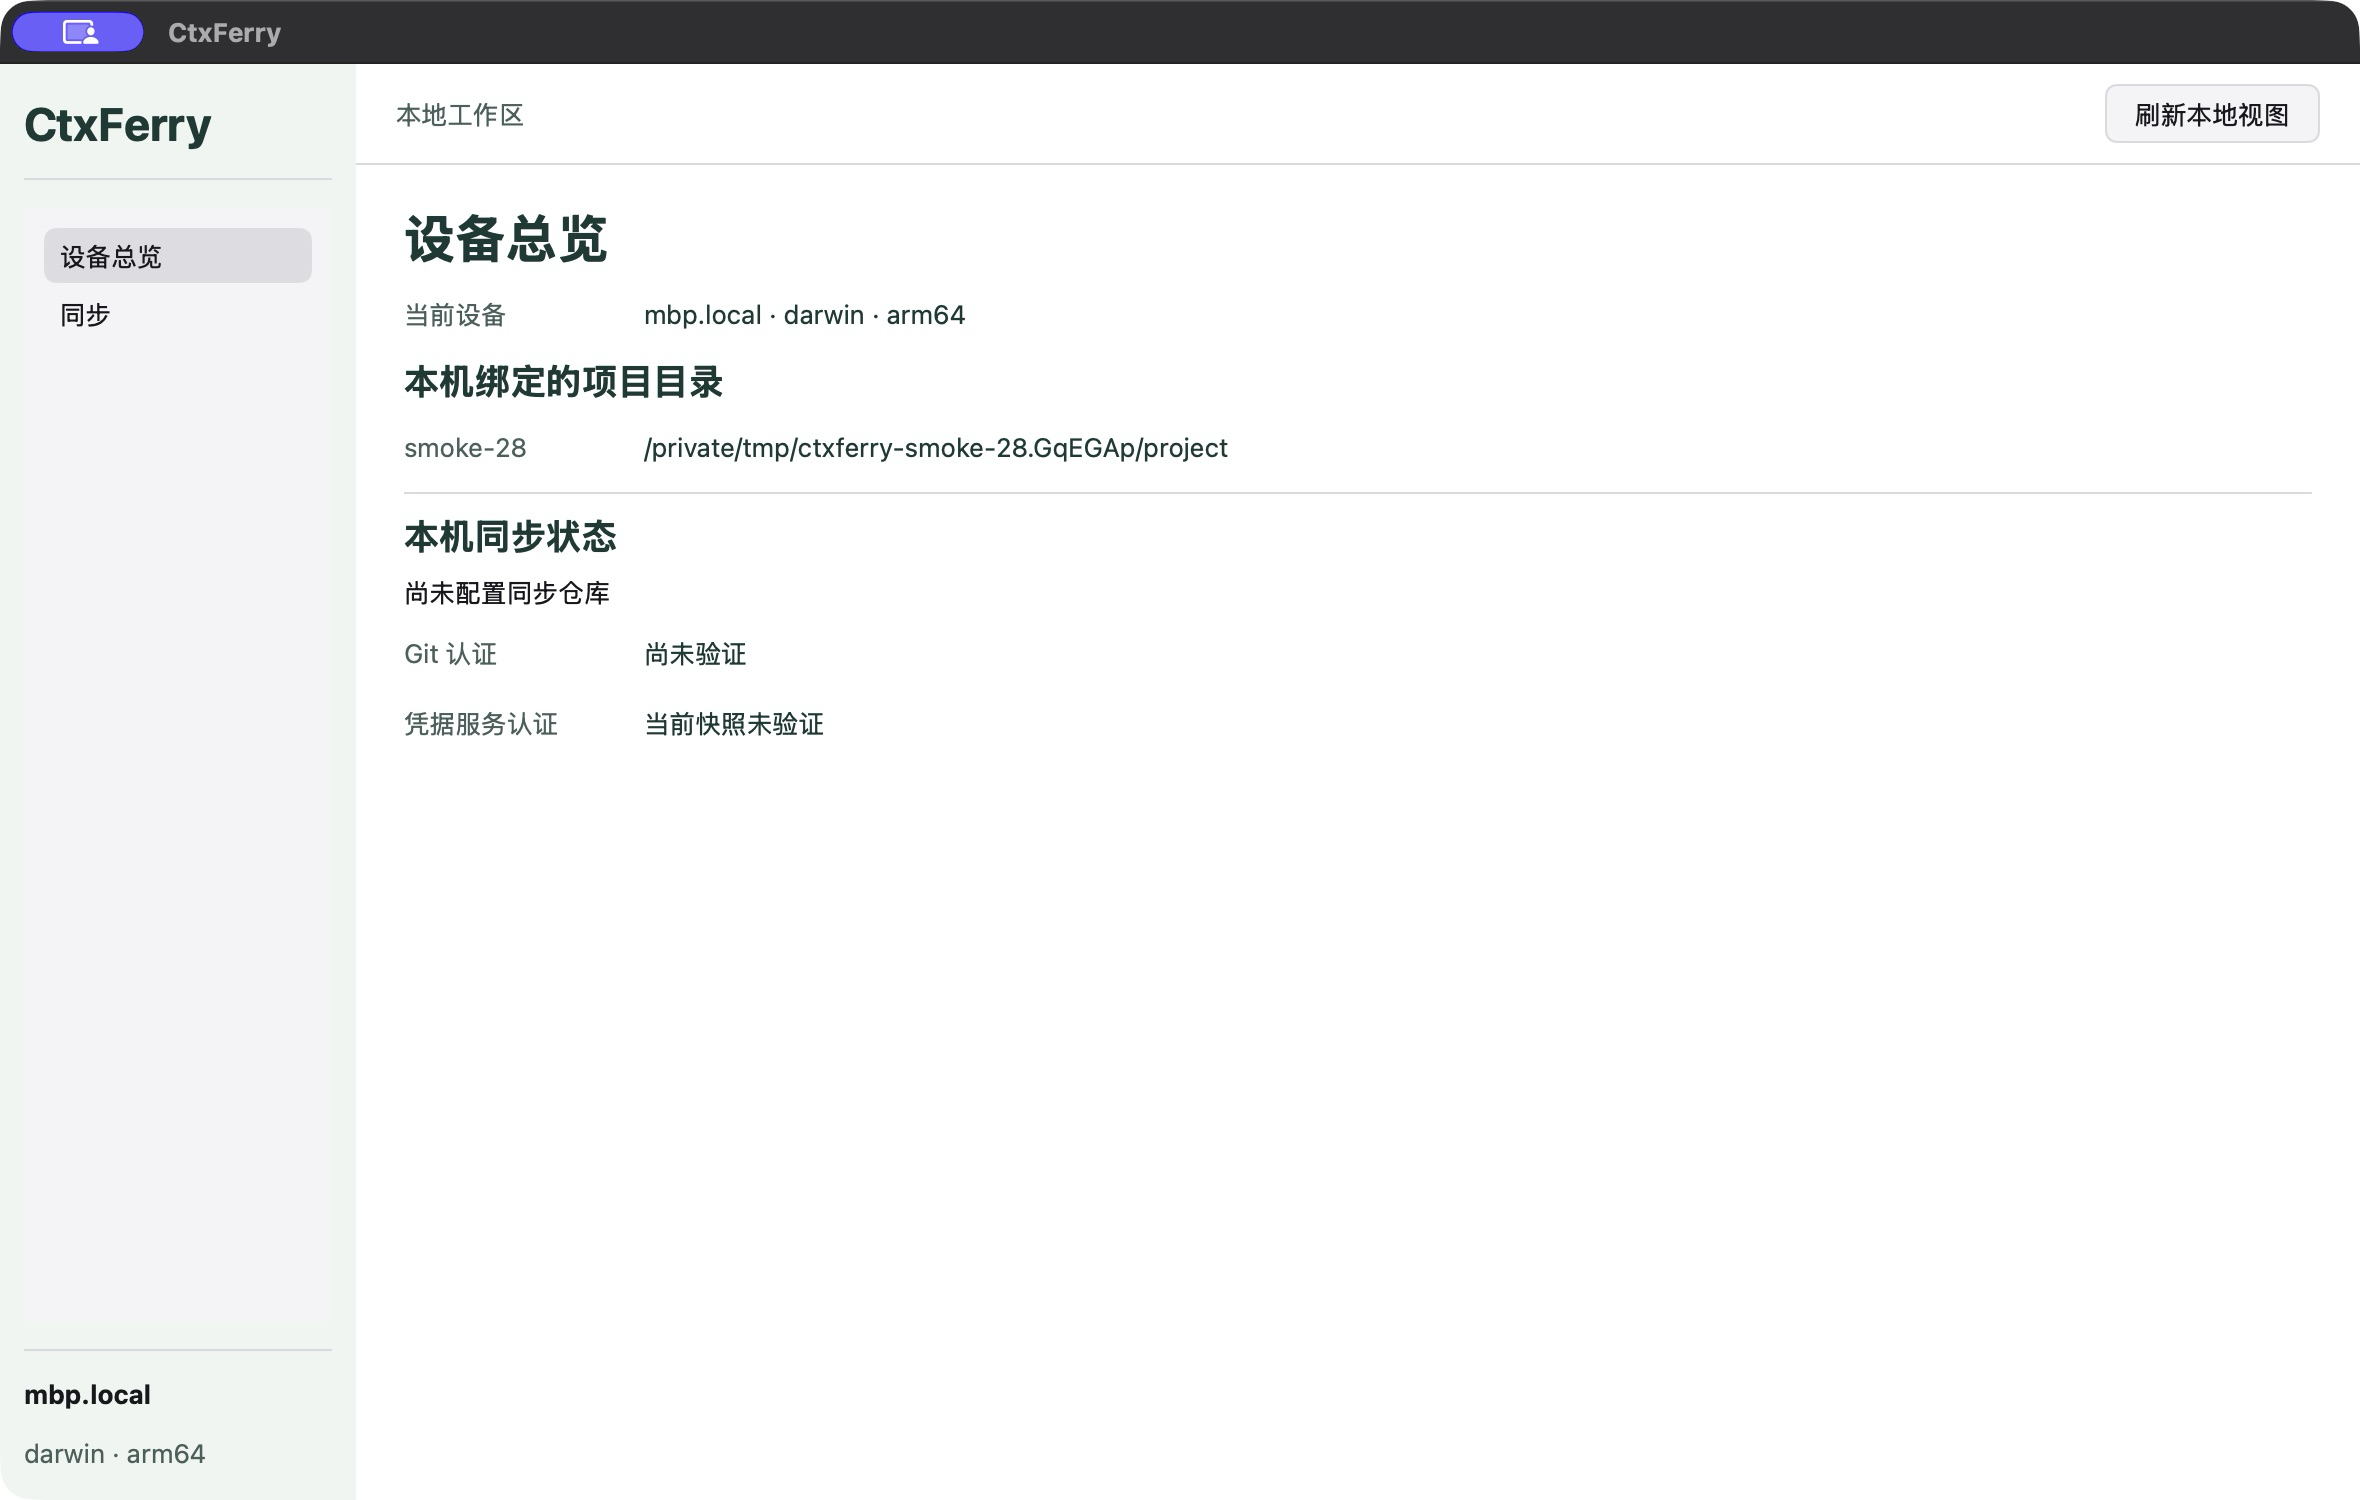
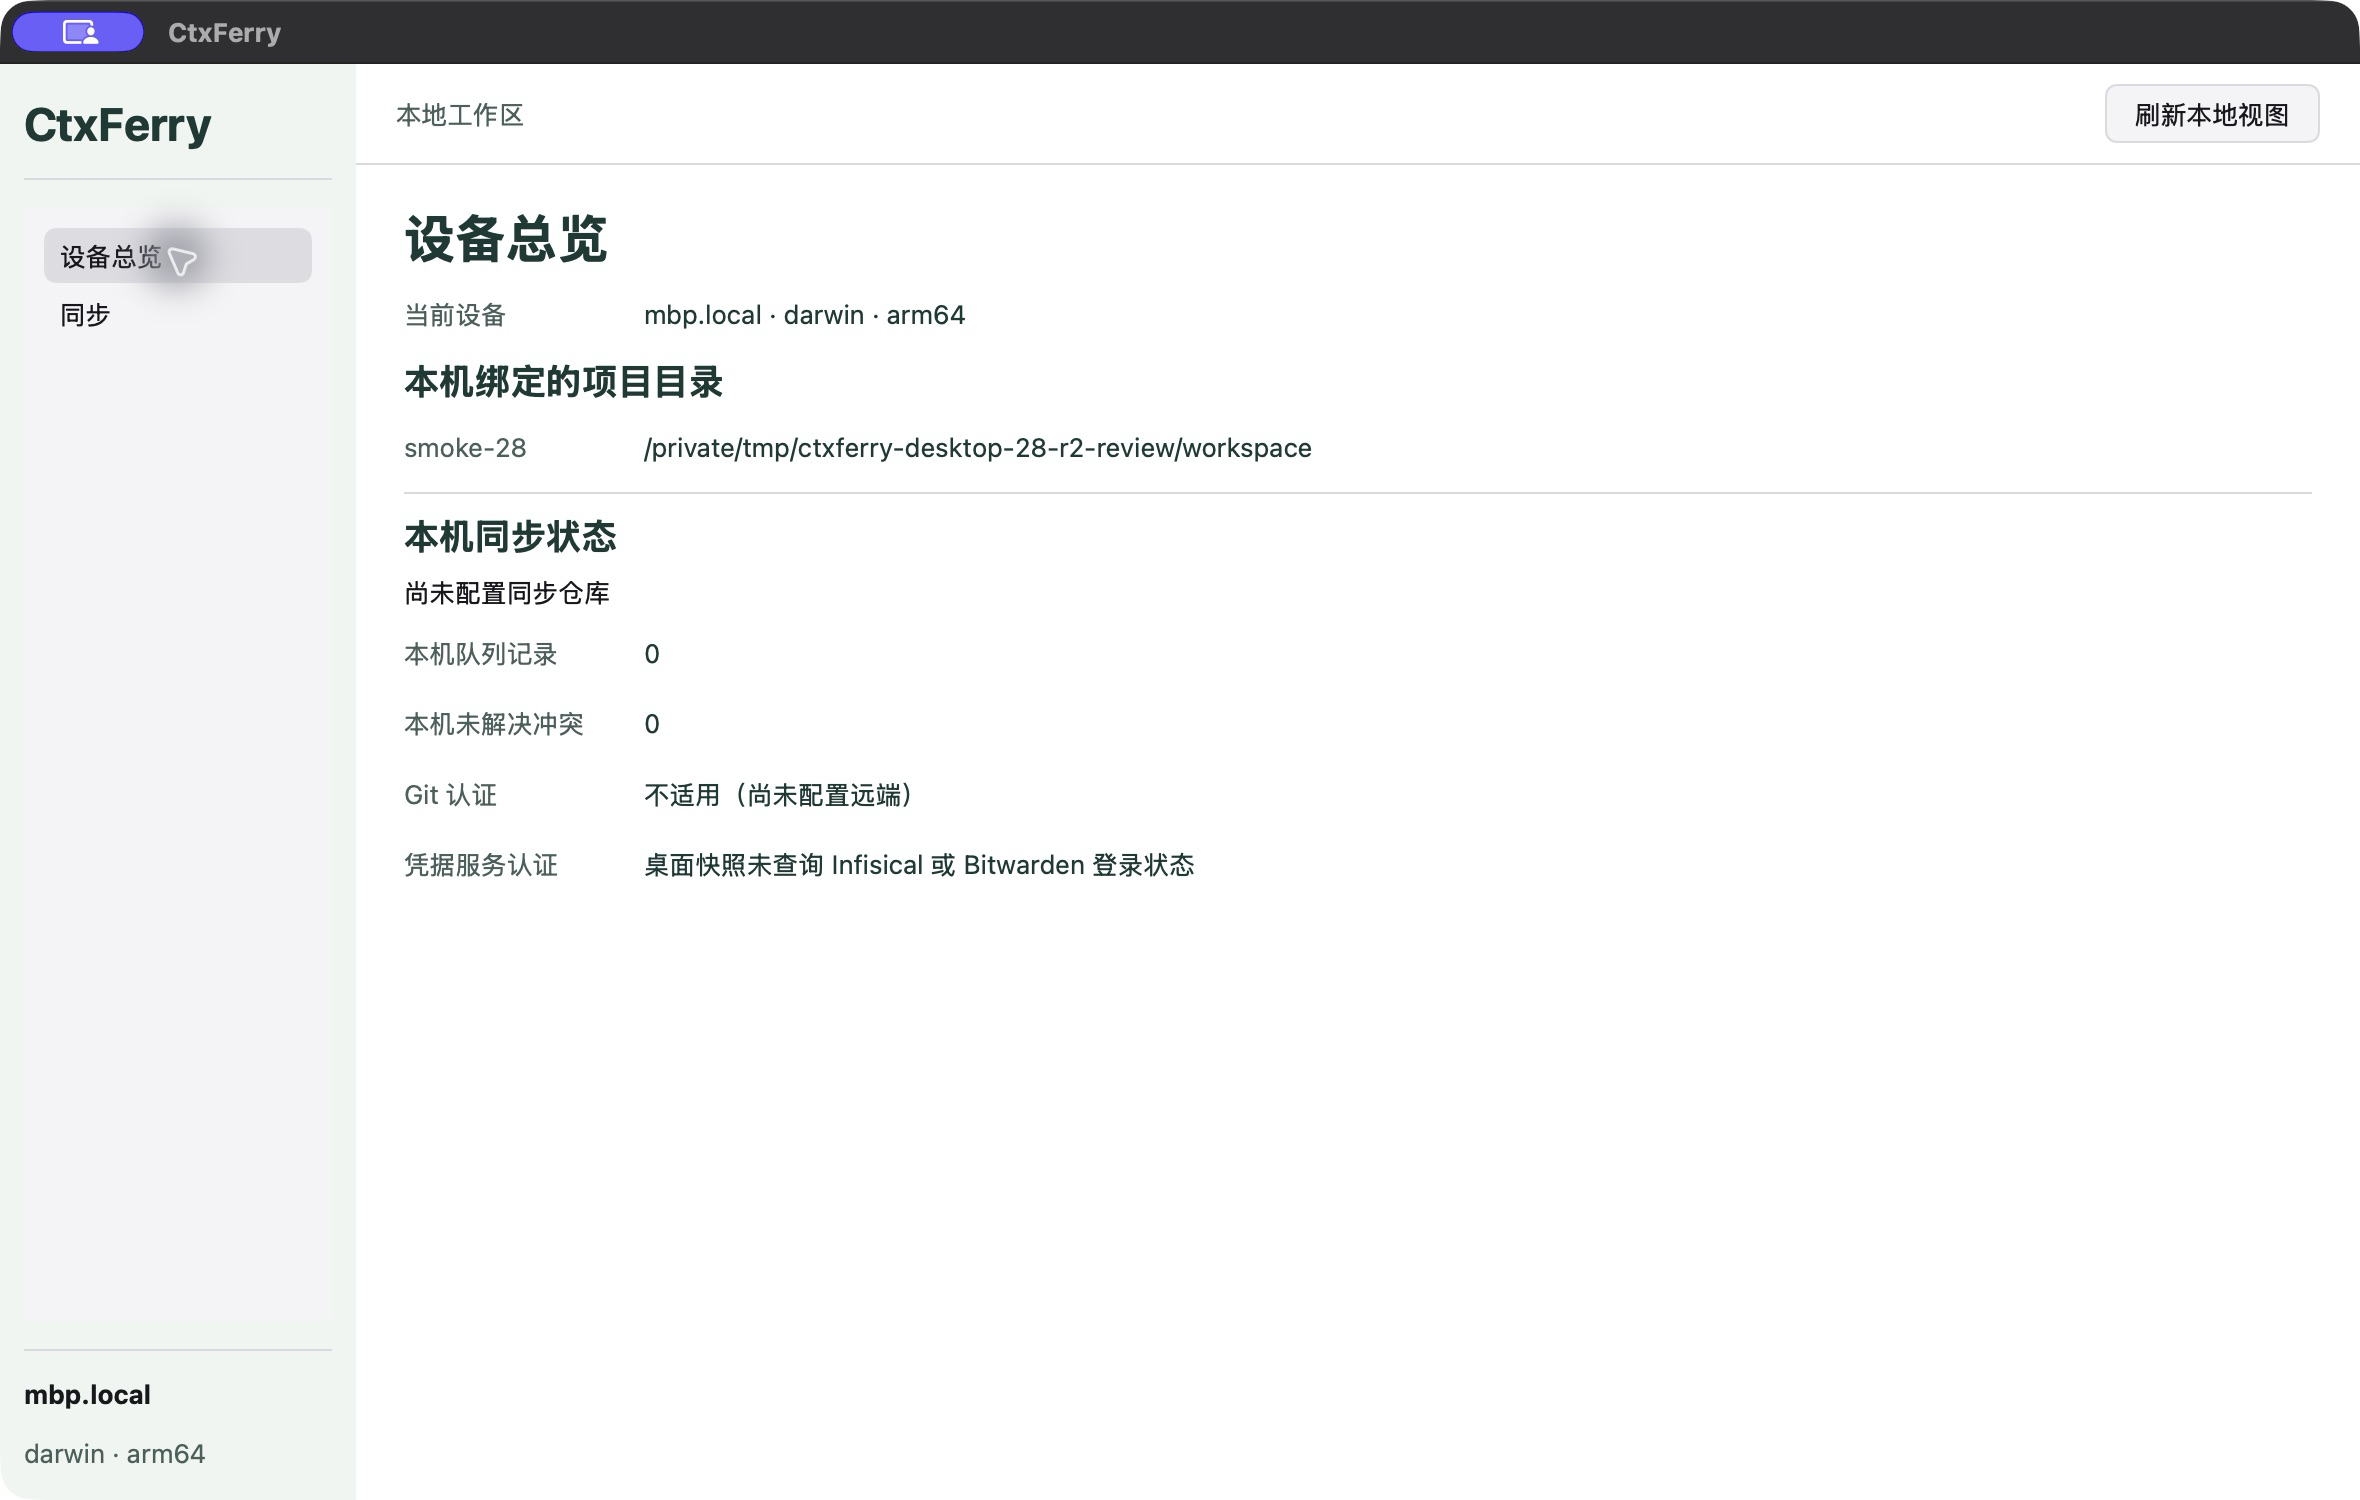
Record macOS window verification and revised implementation screenshots

diff --git a/docs/desktop/review-28.md b/docs/desktop/review-28.md
@@ -1,0 +1,16 @@
+# 设备总览与同步页的实机截图评审
+
+初版实现 `03c178e`，Kimi K3.1 Pro（Thinking Max）逐张评审了 macOS 上同一隔离工作区的总览与同步截图。该工作区已绑定一个项目，尚未配置远端。七项原始分依次为排版 8.0、层级 7.5、间距与密度 7.0、色彩与对比 7.5、图标 6.5、一致性与完成度 7.0、清晰度 5.5，均值 7.0。初版图保存在该提交的 `docs/desktop/screenshots/`。
+
+## 修订及复核材料
+
+实现 `1e4f6c1` 的截图分别为[设备总览](screenshots/overview.png)和[同步页](screenshots/sync.png)。两张图均为桌面采集后转换的 2360 × 1500 PNG。
+
+| 初审发现 | 处理与证据 |
+|---|---|
+| 无仓库时，明文说明容易被理解为仓库已通过隐私核验 | 同步页说明发布前核验与发布后的明文边界，并将远端确认标为不适用。 |
+| 无法区分空队列与没有查询，且缺少连接入口说明 | 核心在同一个只读事务里查询本机队列与冲突，成功读取后才展示数量。同步页给出连接专用私有库的 CLI 示例与刷新步骤。 |
+| 未检查认证的原因不清楚 | 总览将 Git 未配置远端与桌面快照未查询 Infisical、Bitwarden 登录状态分开。 |
+| 左上角未见系统窗口控件 | Terra 通过 macOS 辅助功能树定位到关闭、最小化和全屏控件，实测最小化、恢复、缩放并关闭了测试进程。系统截图接口取图失败，采集标记遮挡标题栏局部，按钮外观与标题栏拖动仍待确认。 |
+
+上述截图拍摄时只绑定了 `smoke-28`。拍摄后通过 CLI 绑定第二个项目，在窗口内点击刷新，辅助功能树出现了新项目。当前截图证据覆盖未配置远端的 macOS 窗口；已配置仓库的数据展示以及小窗口、读屏等场景仍需各自的证据。
